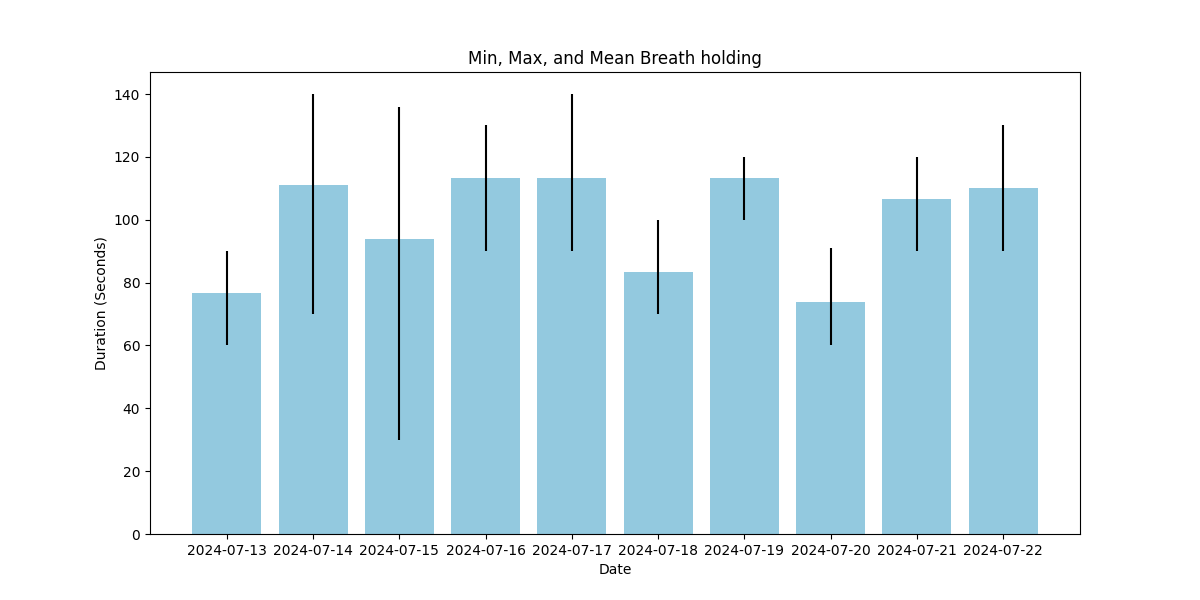
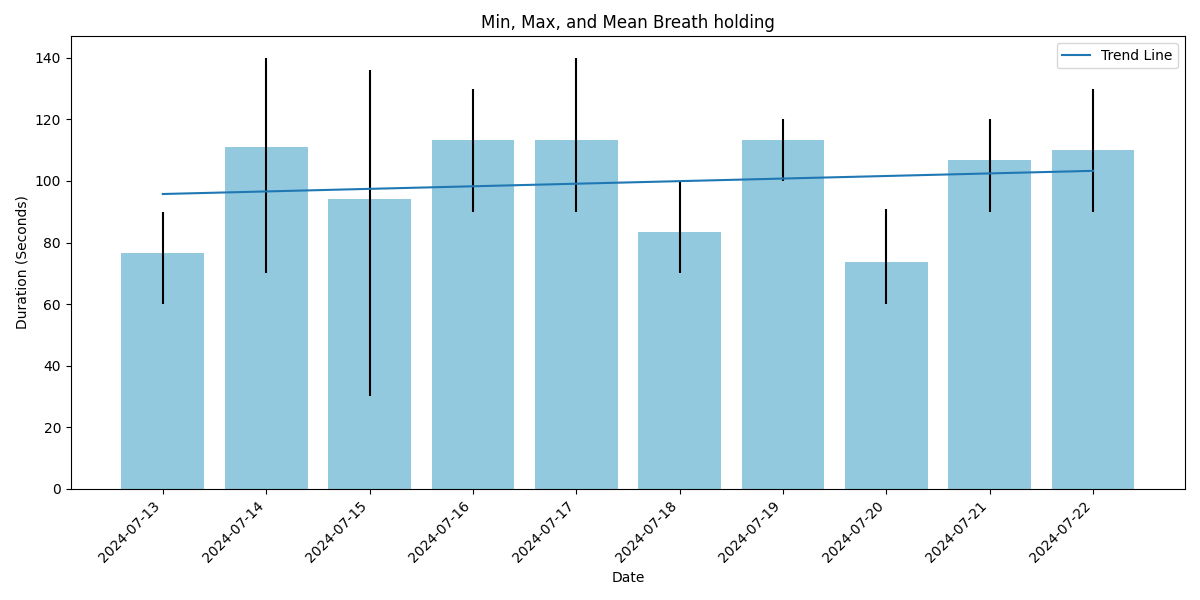
chore: add Linear Trend Line to Mean Durations

diff --git a/src/helpers/get_breath_holding.py b/src/helpers/get_breath_holding.py
@@ -5,6 +5,8 @@ import datetime
 import pandas as pd  # type: ignore
 import seaborn as sns  # type: ignore
 import matplotlib.pyplot as plt  # type: ignore
+import matplotlib.colors as mcolors  # type: ignore
+from scipy.stats import linregress  # type: ignore
 
 
 def get_breath_holding():
@@ -19,23 +21,29 @@ def get_breath_holding():
 
     df = pd.read_csv(url)
 
-    cols = [
-        "DATE",
-        "SET-NUMBER",
-        "START-TIME (HH:MM)",
-        "DURATION (MM:SS)",
-        "FROM-INHALE",
-        "CONTROLLED-HYPERVENTILATION",
-        "TIMEZONE",
-        "LOCATION",
-        "NOTES",
-    ]
+    # cols = [
+    #     "DATE",
+    #     "SET-NUMBER",
+    #     "START-TIME (HH:MM)",
+    #     "DURATION (MM:SS)",
+    #     "FROM-INHALE",
+    #     "CONTROLLED-HYPERVENTILATION",
+    #     "TIMEZONE",
+    #     "LOCATION",
+    #     "NOTES",
+    # ]
 
-    return df[["DATE", "SET-NUMBER", "DURATION (MM:SS)"]].dropna()  # df[""].values[-1]
+    return df[["DATE", "SET-NUMBER", "DURATION (MM:SS)"]].dropna()
 
 
 def make_figure(df):
-    print(df)
+    """_summary_
+
+    :param df: _description_
+    :type df: _type_
+    """
+
+    # print(df)
 
     today = datetime.datetime.now().date()
 
@@ -52,6 +60,9 @@ def make_figure(df):
         ['min', 'max', 'mean']
         ).reset_index()
 
+    # Convert dates to ordinal for regression
+    summary_df['DATE_ORD'] = pd.to_datetime(summary_df['DATE']).map(pd.Timestamp.toordinal)
+
     plt.figure(figsize=(12, 6))
     sns.barplot(x='DATE', y='mean', data=summary_df, color='skyblue', capsize=0.2)
     plt.errorbar(
@@ -63,9 +74,24 @@ def make_figure(df):
               c='black'
         )
 
+    # Linear regression for trend line
+    slope, intercept, r_value, p_value, std_err = linregress(
+        summary_df['DATE_ORD'], summary_df['mean']
+        )
+    trend_line = intercept + slope * summary_df['DATE_ORD']
+
+    # Plot trend line
+    plt.plot(summary_df['DATE'], trend_line, color=mcolors.TABLEAU_COLORS['tab:blue'], label='Trend Line')
+
+    # Rotate x-axis labels
+    plt.xticks(rotation=45, ha='right')
+
     plt.xlabel('Date')
     plt.ylabel('Duration (Seconds)')
     plt.title('Min, Max, and Mean Breath holding')
+
+    plt.legend()
+    plt.tight_layout()
 
     # plt.show()
     plt.savefig(f"docs/project_docs/img/breathholding/{today}.png")
